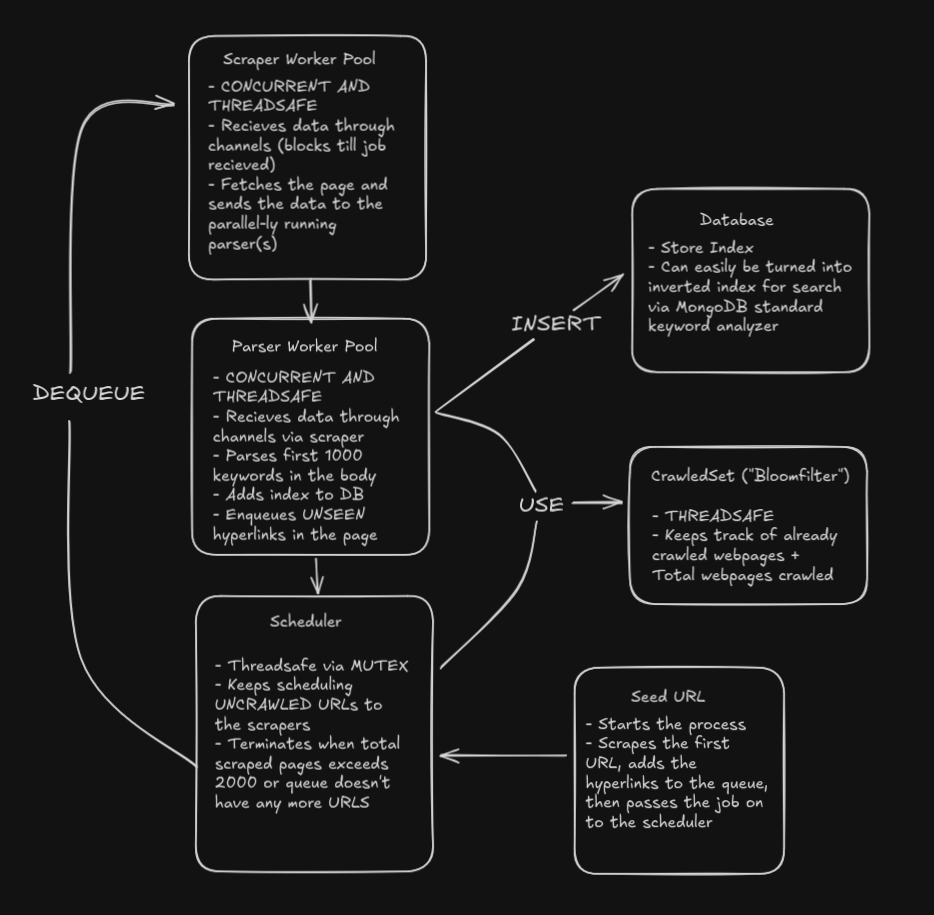
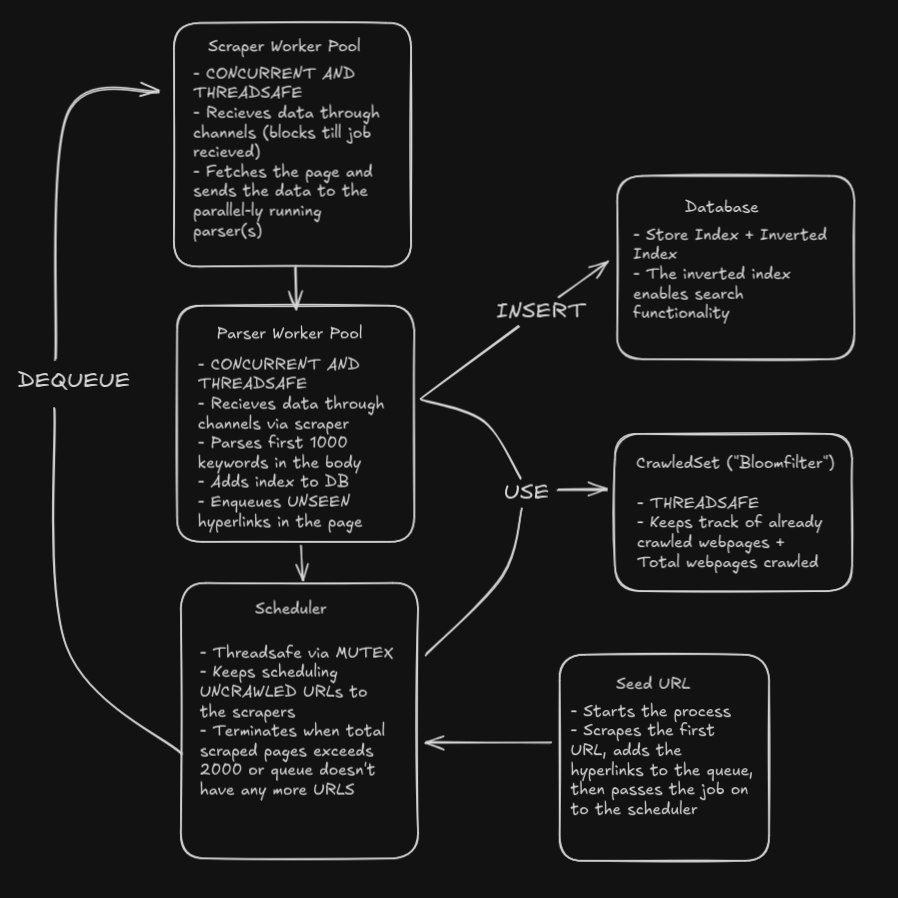
feat: implement inverted-index for search functionality
- add functions to create inverted-index and search for a keyword
- also convert all keywords to lowercase to help search
- small readme updates: show search functionality

diff --git a/internal/db.go b/internal/db.go
@@ -4,39 +4,73 @@ import (
 	"context"
 	"log"
 	"os"
-	"sync"
+	"strings"
 
+	"go.mongodb.org/mongo-driver/v2/bson"
 	"go.mongodb.org/mongo-driver/v2/mongo"
 	"go.mongodb.org/mongo-driver/v2/mongo/options"
 )
 
+// Mongoclient is threadsafe inherently, no need for locking manually
 type DBClient struct {
 	Client     *mongo.Client
 	Collection *mongo.Collection
-	Mu         *sync.Mutex
 }
 
 type CrawledData struct {
-	URL      string
-	Keywords []string
+	URL      string   `bson:"url"`
+	Keywords []string `bson:"keywords"`
 }
 
 func (c *DBClient) InsertWebpage(job string, keywords []string) {
-	c.Mu.Lock()
 	_, err := c.Collection.InsertOne(context.TODO(), CrawledData{
 		URL:      job,
 		Keywords: keywords,
 	})
 	if err != nil {
-		log.Fatalf("Failed to insert record, %v", err)
+		log.Printf("Failed to insert record, %v", err)
 	}
-	c.Mu.Unlock()
 }
 
 func (c *DBClient) Disconnect() {
 	if err := c.Client.Disconnect(context.TODO()); err != nil {
 		panic(err)
 	}
+}
+
+// Creating a basic inverted index (no ranking)
+func (c *DBClient) CreateInvertedIndex() error {
+	model := mongo.IndexModel{
+		Keys:    bson.D{{Key: "keywords", Value: 1}},
+		Options: options.Index().SetName("keyword_inverted_index"),
+	}
+
+	_, err := c.Collection.Indexes().CreateOne(context.TODO(), model)
+	return err
+}
+
+// Search queries the inverted index for a specific keyword
+func (c *DBClient) Search(keyword string) error {
+	keyword = strings.ToLower(keyword)
+	// This filter triggers the Multikey Index lookup
+	filter := bson.D{{Key: "keywords", Value: keyword}}
+
+	cursor, err := c.Collection.Find(context.TODO(), filter)
+	if err != nil {
+		return err
+	}
+
+	// Get all keyword matches (UNRANKED!!!)
+	var results []CrawledData
+	if err = cursor.All(context.TODO(), &results); err != nil {
+		return err
+	}
+
+	// Print the results
+	for _, res := range results {
+		log.Printf("%s", res.URL)
+	}
+	return nil
 }
 
 func ConnectMongo() DBClient {
@@ -49,6 +83,5 @@ func ConnectMongo() DBClient {
 	return DBClient{
 		Client:     client,
 		Collection: client.Database("crawler").Collection("crawled-data"),
-		Mu:         &sync.Mutex{},
 	}
 }

diff --git a/cmd/lokix/main.go b/cmd/lokix/main.go
@@ -118,4 +118,16 @@ func main() {
 	ticker.Stop()
 	done <- true
 	log.Printf("Total Pages Crawled: %d, Total Queued: %d", crawledSet.Total(), scheduler.TotalQueued())
+
+	// Creating the inverted index
+	err := client.CreateInvertedIndex()
+	if err != nil {
+		log.Fatalf("Failed to create inverted index, %v", err)
+	}
+
+	log.Println("Showing results when searching for the word 'eukaryote'")
+	err = client.Search("eukaryote")
+	if err != nil {
+		log.Printf("Failed to search index, %v", err)
+	}
 }

diff --git a/internal/parser.go b/internal/parser.go
@@ -109,7 +109,8 @@ func ParseHTML(htmlData []byte, sourceURL string) ([]string, []string) {
 					continue
 				}
 
-				sanitizedWord := strings.TrimSpace(word)
+				// Make everything lowercase for uniformity
+				sanitizedWord := strings.ToLower(strings.TrimSpace(word))
 				if sanitizedWord != "" {
 					keywords[keywordIdx] = word
 					keywordIdx++

diff --git a/README.md b/README.md
@@ -31,21 +31,23 @@ I decided to go for the not-so elegant - if the queue is full, drop additional U
 
 
 #### Search Engine
-_I only manually implemented the index, Inverted Index is relatively easy to implement in MongoDB using it's standard keyword analyzer_
 The search engine functionality is basically just an inverted index table for now. We'll start by creating an index with `URL` and the `keywords` found in that URL, and then create an inverted index of the form `keyword` - `URLs`. There won't be any crazy ranking algorithm to rank the results, probably just the most keyword matches.
 
 I also want to limit the number of keywords analyzed per website to a limit as I don't want an insanely large collection -> building a search engine is not the primary purpose of this project. This will also help in leading to the different pages being parsed in about the same time, which might help performance...
 
-I'll first implement a "static" search engine, where I first crawl how much I want to crawl and then search. But I also want to try dynamic updation of indices -> crawling continues in the bg and search engine also works.
+I'll first implement a "static" search engine, where I first crawl how much I want to crawl and then search. But I also want to try dynamic updation of indices -> crawling continues in the bg and search engine also works. **I DIDN'T IMPLMENT DYNAMIC INDEXING**
+
+Example Search
+![Search Example](images/search.png)
 
 ### Performance
 I used logging to determine the crawling progress, queue growth and queue growth/progress. The timestamped logs made it easier to plot the graphs
-![alt text](images/crawling_progress.png)
-![alt text](images/queue_growth_vs_progress.png)
-![alt text](images/queue_growth.png)
+![Crawling Progress](images/crawling_progress.png)
+![Queue Growth](images/queue_growth.png)
+![Queue Growth vs Crawl Progress](images/queue_growth_vs_progress.png)
 
 ### Experience
-Overall it was a great learning experience. I worked with concurrency and implemented threadpools for the first time. Also this is my first web-crawler implementation. The project is also completely based on Docker, and I learnt a lot about Docker as well. I'm especially proud as this is the first time I implemented a multi-stage build on a distroless base image along with a complete docker-compose, the DB is containerized as well. I also learnt about HTML parsing, and even though we have parsers you still have to dig a bit into HTML structure and how to avoid unwanted data.
+Overall it was a great learning experience. I worked with concurrency and implemented threadpools for the first time. Also this is my first web-crawler implementation. The project is also completely based on Docker, and I learnt a lot about Docker as well. I'm especially proud as this is the first time I implemented a multi-stage build on a distroless base image along with a complete docker-compose, the DB is containerized as well. I also learnt about HTML parsing, and even though we have parsers you still have to dig a bit into HTML structure and how to avoid unwanted data. I also implemented a bare-bones inverted index, which serves basic search purpose but if I want to make it a search engine there's a long way to go.
 
 I'm very proud of my first project that focusses completely on concurrency, and whereas there is a lot of future scope, I'm happy with what I've been able to achieve. I also tried my best to follow go patterns to make the code as efficient and readable as possible.
 
@@ -59,6 +61,7 @@ I'm very proud of my first project that focusses completely on concurrency, and 
 - Limits queue size to stop the queue from growing infinitely (which would lead to memory issues)
 - Achieved 25-30 pages crawled per second using 20 workers
 - Completely containerized to help fast setup
+- Basic search functionality using mongodb inverted-index
 
 ### Cons (which technically also mean future-scope)
 - Actually implement the bloomfilter instead of the hashmap
